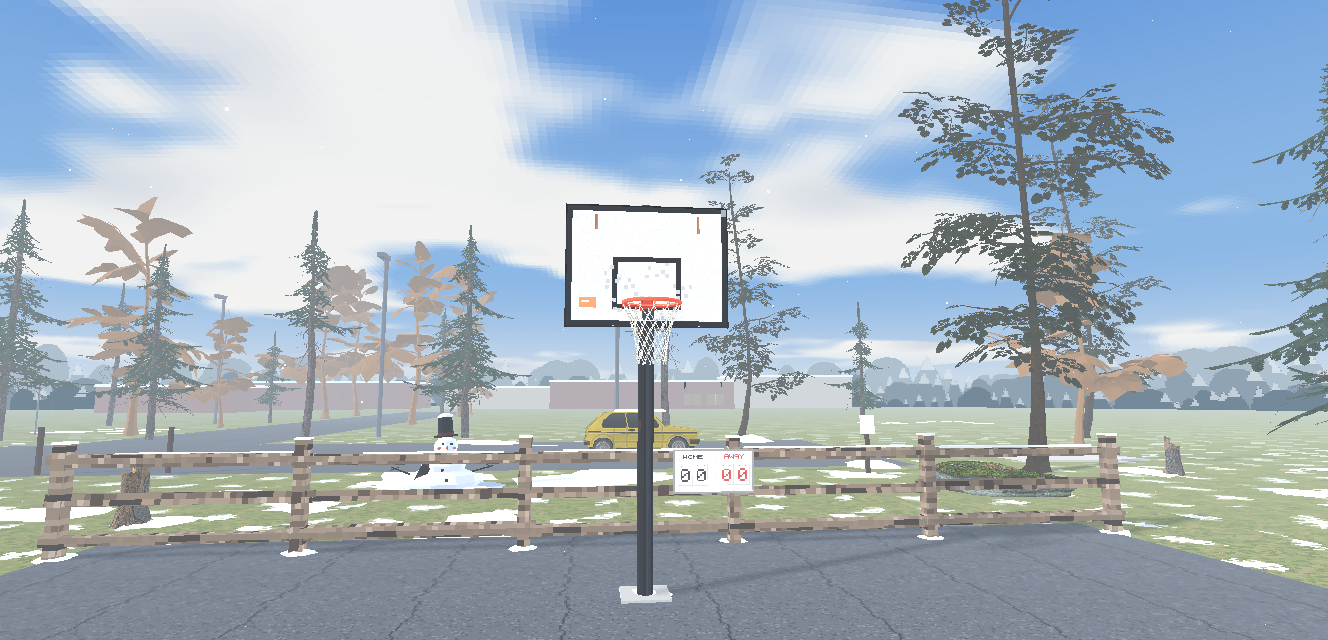
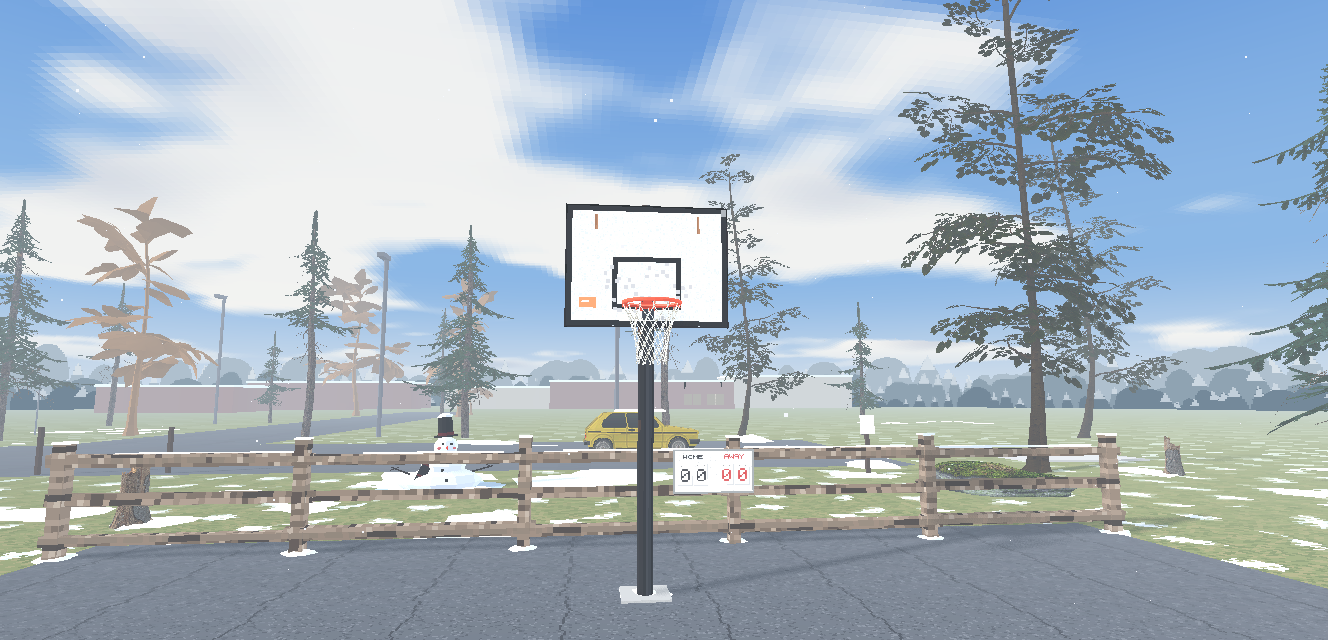
The park's second tree cut: six more rows out, 23 trees
Ross deleted six in Blender (2026-10-16): a lot-row pine, three far
aspens on the right, the aspen at (17.5, 14.5) on the left and the fallen
pine along the lot. The layout generator drops them (CUT_2), the layout
test follows (23 trees, three scaled far aspens, no fallen log), and the
park's archive cards are retaken.

diff --git a/tools/gen_park_layout.py b/tools/gen_park_layout.py
@@ -93,6 +93,13 @@ rows = [r for r in rows if not (r["model"].startswith("aspen") and abs(r["x"] - 
 # …and the far aspen at (31.5, -10.9) on the left, the other half of the
 # brown pair from the key (Ross deleted it in Blender, 2026-10-16).
 rows = [r for r in rows if not (r["model"].startswith("aspen") and abs(r["x"] - 31.5) < 0.3 and abs(r["z"] + 10.9) < 0.3)]
+# Six more Ross deleted in Blender (2026-10-16, second pass): a lot-row pine
+# at (26.3, -17.2), three far aspens on the right at (35.9, -19.6),
+# (38.4, -10.6) and (48.5, -19.1), the aspen at (17.5, 14.5) on the left,
+# and the fallen pine along the lot at (13.5, -13.6).
+CUT_2 = [("pine", 26.27, -17.21), ("aspen", 35.85, -19.58), ("aspen", 38.35, -10.56),
+         ("aspen", 48.45, -19.07), ("aspen", 17.5, 14.5), ("fallen", 13.5, -13.6)]
+rows = [r for r in rows if not any(r["model"].startswith(m) and abs(r["x"] - x) < 0.3 and abs(r["z"] - z) < 0.3 for m, x, z in CUT_2)]
 
 doc = {"generated_by": "tools/gen_park_layout.py", "seed": 7, "rows": rows}
 with open(OUT, "w") as f:

diff --git a/docs/BLENDER_101.md b/docs/BLENDER_101.md
@@ -853,8 +853,9 @@ laid out from the reference photo. Three scripts and a layout file:
 - `tools/gen_park_layout.py` → `data/park_layout.json`: the design's seeded
   placement (aspens on the avenue rows, pines in the gaps, the big trees
   right, the group past the path, the trees behind the camera, the tall
-  two stumps, the mossy rock, the fallen
-  log along the lot). `game/view/park_fx.gd` builds one `MultiMeshInstance3D`
+  two stumps, the mossy rock; the fallen
+  log along the lot went with Ross's second Blender cut of 2026-10-16, six
+  rows out — 26 rows, 23 trees). `game/view/park_fx.gd` builds one `MultiMeshInstance3D`
   per model surface from it — split near/far at `ParkFx.SHADOW_R` (16 m
   from the hoop): only the two trees by the court cast shadows (the photo's
   leaning aspen over the board went on 2026-10-16: it doubled up on the left
